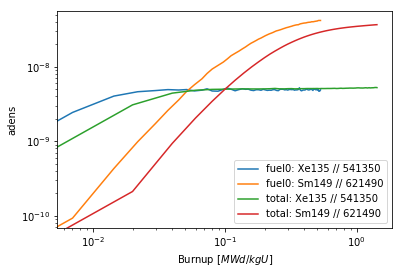
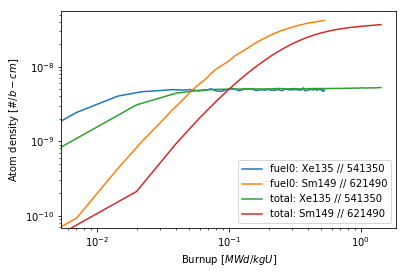
DOC Update DepletionReader documentation with zai plots
Part of rolling in changes from
72ab285d8beb18de584b039b00d8a26c70569327

diff --git a/docs/examples/DepletionReader.rst b/docs/examples/DepletionReader.rst
@@ -232,23 +232,6 @@ or ``zai`` are not given.
 The |depMat| uses this slicing for the built-in |depMatPlot| method, 
 which takes similar slicing arguments to |getValues|.
 
-In addition, the ``labelFmt`` argument can be used to apply a consistent
-label to each unique plot. This argument supports `brace-delimited
-formatting <https://docs.python.org/3/library/stdtypes.html?#str.format>`__,
-and will automatically replace strings like ``{mat}`` with the name of
-the material. The table below contains the special strings and their
-replacements
-
-+-----------+--------------------------------------+
-| String    | Replacement                          |
-+===========+======================================+
-| ``{mat}`` | Name of the material                 |
-+-----------+--------------------------------------+
-| ``{iso}`` | Name of the isotope, e.g. ``'U235'`` |
-+-----------+--------------------------------------+
-| ``{zai}`` | ZZAAAI of the isotope, e.g. 922350   |
-+-----------+--------------------------------------+
-
 By default, the plot method will plot data for all isotopes present,
 leading to very busy plots. The plots can be cleaned up by passing
 isotope names or ``ZZAAAI`` identifiers to the ``names`` or ``zai``
@@ -267,20 +250,33 @@ arguments, respectively.
 
 .. image:: DepletionReader_files/DepletionReader_24_0.png
 
-This type of plotting can also be applied to the |depReader| 
-:py:func:`~serpentTools.parsers.depletion.DepletionReader.plot` method
-, with similar options for formatting and retrieving data. The
+This type of plotting can also be applied to the |depMat|
+level, with similar options for formatting and retrieving data. The
 materials to be plotted can be filtered using the ``materials``
-argument.
-Here, the ``labelFmt`` argument is used to modify the labels
-for each plot.
+argument. The ``labelFmt`` argument can be used to apply a consistent
+label to each unique plot. This argument supports `brace-delimited
+formatting <https://docs.python.org/3/library/stdtypes.html?#str.format>`__,
+and will automatically replace strings like ``{mat}`` with the name of
+the material. The table below contains the special strings and their
+replacements
+
++-------------+----------------------------------------+
+| String      | Replacement                            |
++=============+========================================+
+| ``{mat}``   | Name of the material                   |
++-------------+----------------------------------------+
+| ``{iso}``   | Name of the isotope, e.g. ``'U235'``   |
++-------------+----------------------------------------+
+| ``{zai}``   | ZZAAAI of the isotope, e.g. 922350     |
++-------------+----------------------------------------+
 
 .. code:: 
     
     >>> dep.plot('burnup', 'adens', names=iso, 
     ...          materials=['fuel0', 'total'],
-    ...          labelFmt="{mat}: {iso}", loglog=True,
-    ...          legend='above', ncol=2);
+    ...          labelFmt="{mat}: {iso} // {zai}", loglog=True);
+
+
 
 .. image:: DepletionReader_files/DepletionReader_26_0.png
 
